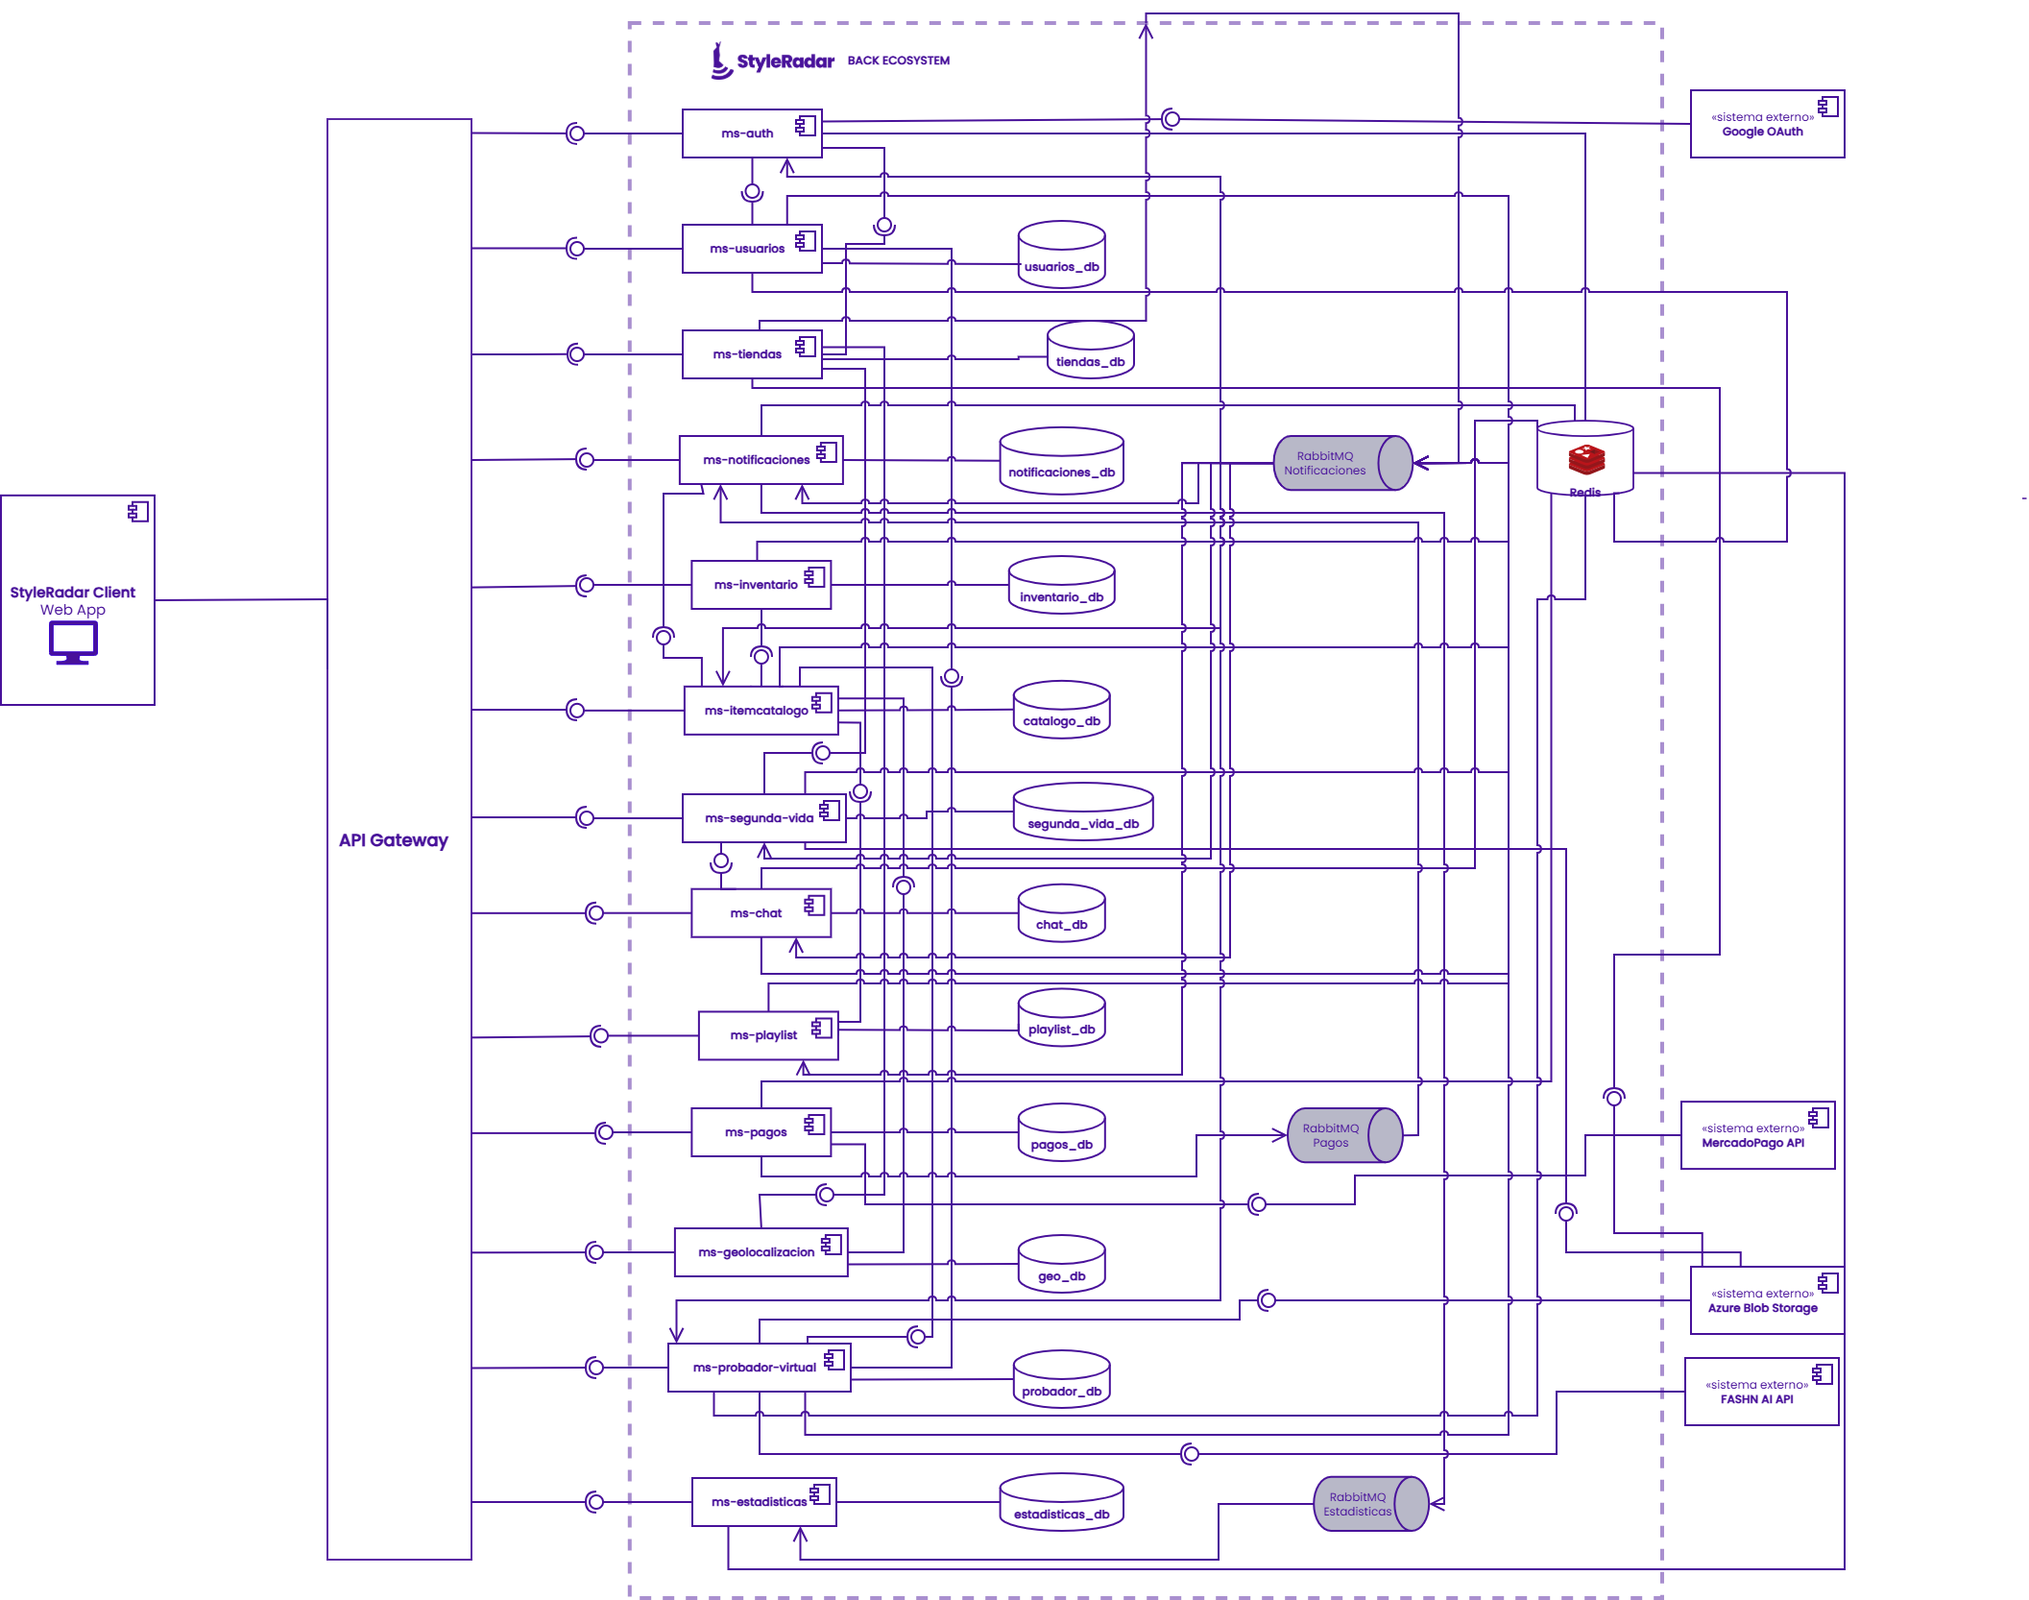
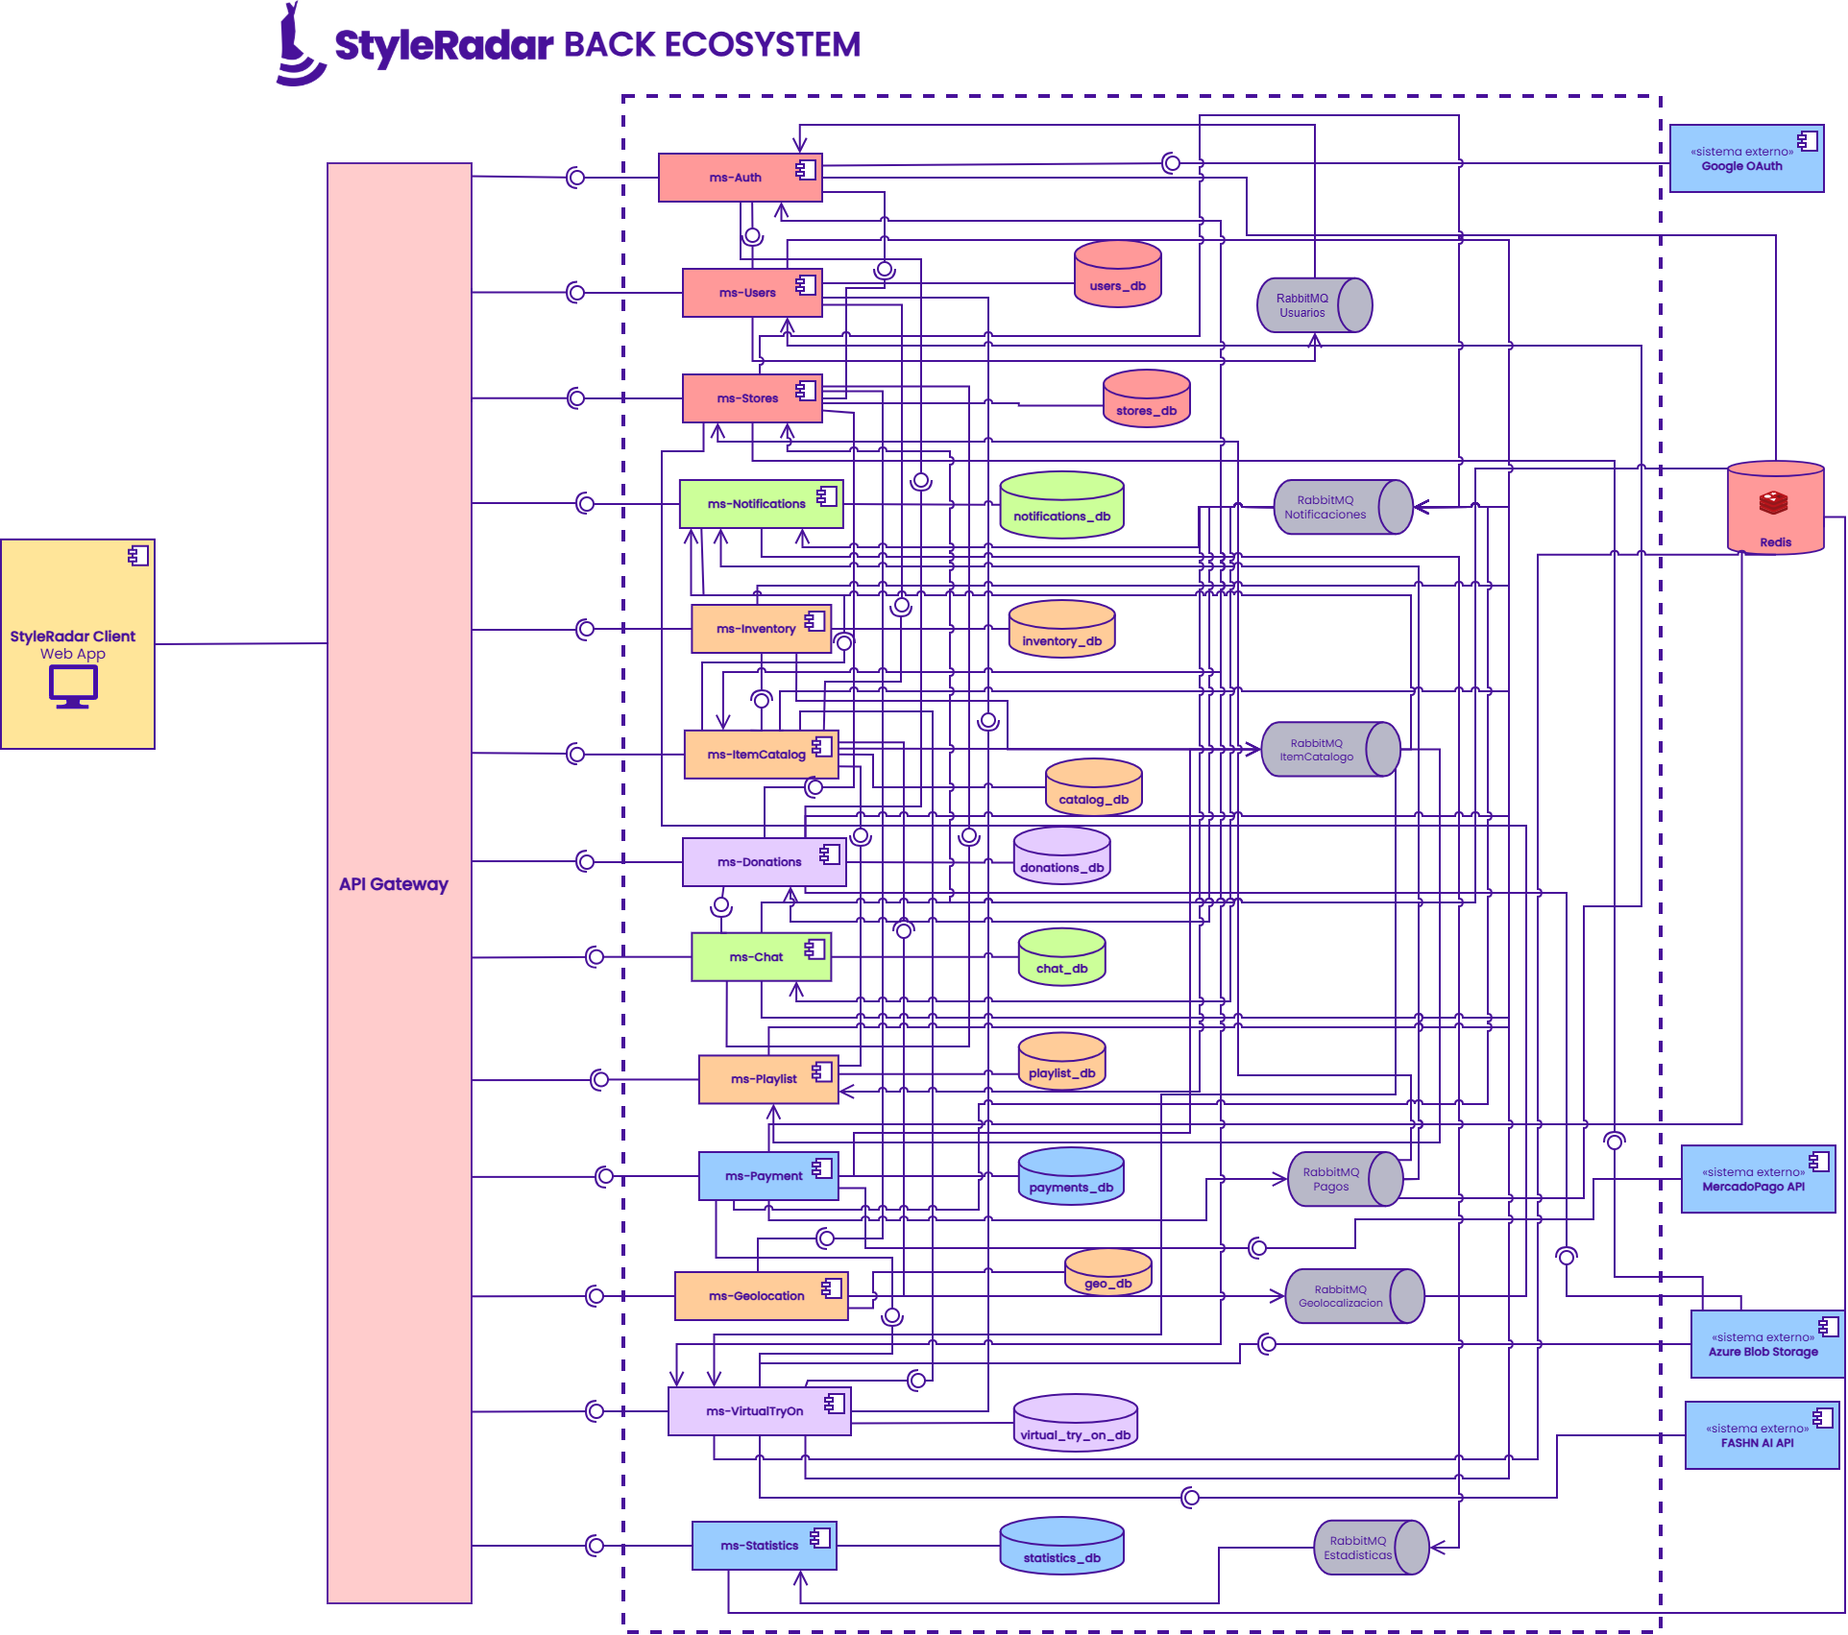
docs(uml): actualizar diagramas generales de componentes y despliegue y alinear explicacion tecnica

Changed region(s): [[0.0, 0.0, 1.0, 1.0], [0.8732, 0.437, 0.9044, 0.5618]]

diff --git a/docs/secciones/02-arquitectura-hexagonal-y-diagramas.md b/docs/secciones/02-arquitectura-hexagonal-y-diagramas.md
@@ -17,10 +17,16 @@ El API Gateway está construido sobre **Spring Cloud Gateway** y **Project React
 Este diagrama presenta la visión arquitectónica global de StyleRadar y delimita el rol estratégico del **API Gateway** como frontera perimetral del sistema:
 
 * **Punto Único de Entrada Perimetral (Single Point of Entry):** Todas las solicitudes emitidas desde la aplicación cliente (`StyleRadar Client Web App`) ingresan de forma obligatoria y exclusiva a través del **API Gateway** en el puerto `8080`. Ningún cliente externo posee visibilidad directa ni acceso a las direcciones IP o puertos de la red interna.
-* **Ocultamiento de Topología Interna y Reverse Proxy:** El Gateway enruta el tráfico hacia el ecosistema de 13 microservicios (`ms-auth` en `:8100`, `ms-usuarios` en `:8120`, `ms-tiendas` en `:8140`, `ms-notificaciones` en `:8300`, `ms-inventario` en `:8200`, `ms-itemcatalogo` en `:8220`, `ms-segunda-vida` en `:8280`, `ms-chat` en `:8320`, `ms-playlist` en `:8260`, `ms-pagos` en `:8400`, `ms-geolocalizacion` en `:8240`, `ms-probador-virtual` en `:8500` y `ms-estadisticas` en `:8420`). Gracias a este enrutamiento perimetral, los microservicios downstream pueden evolucionar, escalar o cambiar de dirección interna sin impactar el contrato consumido por el frontend.
-* **Naturaleza Stateless vs. Aislamiento de Persistencia (*Database-per-Service*):** Mientras cada microservicio de negocio gestiona su propia base de datos relacional PostgreSQL de manera 100% aislada (`usuarios_db`, `tiendas_db`, `catalogo_db`, `probador_db`, etc.), el API Gateway es un componente **completamente sin estado (stateless)**. No persiste registros en disco ni compite por bloqueos de base de datos, lo que le permite maximizar el rendimiento reactivo no bloqueante de Netty y escalar horizontalmente bajo picos de tráfico masivo.
-* **Aceleración en Memoria y Desacoplamiento Asíncrono:** Los microservicios consumen instancias de **Redis** para caching de alta velocidad y colas en **RabbitMQ** para procesamiento de eventos en segundo plano (notificaciones, analítica, transacciones). El API Gateway opera en una capa superior a esta mensajería, procesando únicamente tráfico HTTP/WebSocket síncrono perimetral de alta concurrencia.
-* **Frontera de Servicios Externos (SaaS):** Las integraciones de terceros (Google OAuth, MercadoPago API, Azure Blob Storage y FASHN AI API) son consumidas internamente por los microservicios dueños de cada dominio. El Gateway actúa como escudo protector, evitando que llamadas externas no autorizadas puedan comprometer los conectores de infraestructura del sistema.
+* **Ocultamiento de Topología Interna y Reverse Proxy:** El Gateway enruta el tráfico hacia el ecosistema de 13 microservicios autónomos bajo nomenclatura estandarizada:
+  - **Paquete 1 (Identidad):** `ms-Auth` (:8100), `ms-Users` (:8120) y `ms-Stores` (:8140).
+  - **Paquete 2 (Catálogo):** `ms-Inventory` (:8200), `ms-ItemCatalog` (:8220), `ms-Playlist` (:8260) y `ms-Geolocation` (:8240).
+  - **Paquete 3 (Mensajería y Notificaciones):** `ms-Notifications` (:8300) y `ms-Chat` (:8320 con soporte WebSocket).
+  - **Paquete 4 (Financiero y Analítica):** `ms-Payment` (:8400) y `ms-Statistics` (:8420).
+  - **Paquete 5 (Experiencia y Moda Sostenible):** `ms-VirtualTryOn` (:8500) y `ms-Donations` (:8520).
+  Gracias a este enrutamiento perimetral basado en contratos síncronos UML 2.5 (`API Gateway ---) (O--- ms-*`), los microservicios downstream pueden evolucionar, escalar o migrar de infraestructura interna sin impactar el contrato consumido por el frontend.
+* **Naturaleza Stateless vs. Aislamiento de Persistencia (*Database-per-Service*):** Mientras los microservicios de negocio gestionan su propia base de datos relacional PostgreSQL de manera 100% aislada en 12 esquemas independientes (`users_db`, `stores_db`, `notifications_db`, `inventory_db`, `catalog_db`, `donations_db`, `chat_db`, `playlist_db`, `payments_db`, `geo_db`, `virtual_try_on_db` y `statistics_db`; `ms-Auth` no requiere base relacional al delegar sesiones en tokens y caché), el API Gateway es un componente **completamente sin estado (stateless)**. No persiste registros en disco ni compite por bloqueos de base de datos, lo que le permite maximizar el rendimiento reactivo no bloqueante de Netty y escalar horizontalmente bajo picos de tráfico masivo.
+* **Aceleración en Memoria y Desacoplamiento Asíncrono:** Los microservicios consumen instancias de **Redis** para caching de alta velocidad (bases `Auth`, `Payment`, `Chat`, `Statistics` y `Virtual Try-on`) y colas dedicadas en **RabbitMQ** (`RabbitMQ Usuarios`, `RabbitMQ Notificaciones`, `RabbitMQ ItemCatalogo`, `RabbitMQ Pagos`, `RabbitMQ Geolocalizacion`, `RabbitMQ Estadisticas`) para procesamiento distribuido de eventos en segundo plano. El API Gateway opera en una capa superior a esta mensajería, procesando únicamente tráfico HTTP/WebSocket síncrono perimetral de alta concurrencia.
+* **Frontera de Servicios Externos (SaaS):** Las integraciones de terceros (`Google OAuth` para identidad, `MercadoPago API` para pagos, `Azure Blob Storage` para activos multimedia y `FASHN AI API` para inferencia generativa) son consumidas internamente por los microservicios dueños de cada dominio. El Gateway actúa como escudo protector, evitando que llamadas externas no autorizadas puedan comprometer los conectores de infraestructura del sistema.
 
 #### 2.2 Diagrama de Flujo y Cadena de Filtros Reactivos
 
@@ -72,37 +78,49 @@ Este diagrama modela la interacción temporal del flujo de peticiones que cruzan
 
 Este diagrama modela la topología física, el confinamiento de red y la arquitectura de infraestructura en la nube para la solución integral **StyleRadar**, destacando la posición estratégica del **API Gateway** como centinela de seguridad perimetral:
 
-* **1. Zona Pública / DMZ y Clientes Externos (`«device» Client Workstation / Mobile`):**
-  - Los usuarios compradores, almacenes aliados, fundaciones y administradores acceden al sistema desde navegadores web (SPA React alojada en Vercel) y aplicaciones móviles (Android / iOS).
-  - Todo el tráfico cliente viaja obligatoriamente a través de conexiones seguras cifradas con **HTTPS / TLS 1.3** hacia el nombre de dominio oficial o endpoint de Azure App Service (`:8080`).
-  - Ningún cliente exterior conoce ni puede alcanzar directamente las IPs privadas ni los puertos de los microservicios de negocio.
+* **1. Zona de Cliente y Acceso Público (`«Device» Client / User Device`):**
+  - Los usuarios compradores, comercios aliados y administradores acceden al sistema a través de su navegador web (`«Execution Environment» Web Browser`), el cual ejecuta el artefacto cliente `«Artifact» Web Application (React / Vite)`.
+  - Todo el tráfico cliente viaja de forma obligatoria y cifrada a través de protocolos seguros **`HTTPS :443`** (para llamadas HTTP REST) y **`WSS :8080`** (WebSockets reactivos) hacia el puerto público `:8080` del **API Gateway**.
+  - Ningún cliente exterior conoce ni puede alcanzar directamente las IPs privadas ni los puertos internos de la malla de microservicios.
 
-* **2. Perímetro de Entrada e Ingress Público (`«container» api-gateway`):**
-  - El **API Gateway** se ejecuta como un contenedor OCI basado en `eclipse-temurin:21-jre-alpine` bajo el proceso no privilegiado `gateway (UID 10001)`.
-  - Es el **único contenedor con Ingress público expuesto** (puerto `8080`) en todo el entorno en la nube (`StyleRadar Cloud Environment`).
-  - Asume la terminación TLS, la negociación de políticas CORS (`GlobalCorsFilter`), la inyección de correlación y telemetría (`GlobalRequestLoggingFilter`), y el control estricto de autenticación perimetral (`JwtTokenValidatorFilter`).
-  - Cuenta con mitigación activa frente a la vulnerabilidad CVE-2025-41243 (endpoint administrativo `/actuator/gateway` completamente deshabilitado y protegido).
-  - La sonda de salud de Azure PaaS (`Liveness/Readiness Probe`) supervisa el contenedor cada 30 segundos a través de `/actuator/health`.
+* **2. Entorno de Ejecución en Contenedores (`«Execution Environment» Azure Container Apps Environment`):**
+  - **`«Container App» API Gateway :8080`:** Es el **único contenedor con Ingress público expuesto** (`:8080`) en todo el entorno en la nube. Asume la terminación TLS, la negociación de políticas CORS (`GlobalCorsFilter`), la inyección de correlación y telemetría (`GlobalRequestLoggingFilter`), y el control estricto de autenticación perimetral (`JwtTokenValidatorFilter`).
+  - **Malla de 13 Microservicios (`«Container App»`):** Residen en una red confinada privada sin exposición pública, comunicándose con el API Gateway mediante enlaces HTTP síncronos directos en sus respectivos puertos:
+    - **`ms-Auth :8100`** (`HTTP :8100`) — Autenticación federada, emisión y validación de tokens.
+    - **`ms-Users :8120`** (`HTTP :8120`) — Gestión de perfiles, roles y medidas biométricas.
+    - **`ms-Stores :8140`** (`HTTP :8140`) — Gestión de comercios aliados y catálogos de tiendas.
+    - **`ms-Inventory :8200`** (`HTTP :8200`) — Control de existencias de prendas y stock en tiempo real.
+    - **`ms-Playlist :8260`** (`HTTP :8260`) — Playlists de moda, tendencias y recomendaciones.
+    - **`ms-Geolocation :8240`** (`HTTP :8240`) — Localización geográfica de tiendas y cálculo de cercanía.
+    - **`ms-Chat :8320`** (`HTTP :8320`) — Mensajería interactiva cliente-comercio.
+    - **`ms-Statistics :8420`** (`HTTP :8420`) — Métricas de interacción, telemetría y analítica de negocio.
+    - **`ms-ItemCatalog :8220`** (`HTTP :8220`) — Fichas técnicas de prendas y prendas disponibles.
+    - **`ms-VirtualTryOn :8500`** (`HTTP :8500`) — Orquestación de probador virtual con IA generativa y cuotas.
+    - **`ms-Payment :8400`** (`HTTP :8400`) — Pasarela de cobros, suscripciones y transacciones.
+    - **`ms-Donations :8520`** (`HTTP :8520`) — Gestión de donaciones de ropa y economía circular *(puerto diferenciado, resolviendo colisiones previas)*.
+    - **`ms-Notifications :8300`** (`HTTP :8300`) — Notificaciones push y correos transaccionales.
 
-* **3. Malla Confinada de Microservicios (`«network» styleradar-network / Azure VNet`):**
-  - Los 13 microservicios residen en una red virtual privada y aislada (Azure VNet / Docker Bridge confinada), sin mapeo de puertos hacia la interfaz pública del Host.
-  - La comunicación entre el Gateway y los microservicios downstream es directa, interna y de ultra-baja latencia (< 5 ms):
-    - **Paquete 1: Identidad (CADche · Bloque 8100):** `ms-auth` (:8100), `ms-usuarios` (:8120) y `ms-tiendas` (:8140).
-    - **Paquete 2: Catálogo (RESTrepo · Bloque 8200):** `ms-inventario` (:8200), `ms-item-catalogo` (:8220), `ms-geolocalizacion` (:8240) y `ms-playlist` (:8260).
-    - **Paquete 3: Mensajería y Notificaciones (Guatoque · Bloque 8300):** `ms-notificaciones` (:8300) y `ms-chat` (:8320 con soporte WebSocket/STOMP).
-    - **Paquete 4: Pagos y Analítica (NQS · Bloque 8400):** `ms-pagos-suscripciones` (:8400) y `ms-estadisticas` (:8420).
-    - **Paquete 5: Experiencia y Moda Sostenible (Portal 8080 · Bloque 8500):** `ms-probador-virtual` (:8500) y `ms-segunda-vida-donaciones` (:8520).
-  - Los circuitos de falla de Resilience4j protegen al Gateway de microservicios con lentitud o caídas, degradando elegantemente hacia el `FallbackController` interno (`HTTP 503 RFC 7807`).
+* **3. Persistencia Relacional Dedicada (`«Execution Environment» Azure Database for PostgreSQL` · `:5432`):**
+  - Siguiendo el patrón *Database-per-Service*, un servidor PostgreSQL gestionado aloja **12 bases de datos lógicas independientes** conectadas mediante **`TCP :5432`**:
+    `users_db`, `stores_db`, `notifications_db`, `inventory_db`, `catalog_db`, `donations_db`, `chat_db`, `playlist_db`, `payments_db`, `geo_db`, `virtual_try_on_db` y `statistics_db`.
+  - Cada microservicio con persistencia relacional accede estrictamente a su base de datos asignada. `ms-Auth` no requiere base de datos relacional al gestionar sesiones en caché y validar tokens criptográficos.
 
-* **4. Desacoplamiento de Persistencia (*Database-per-Service*) y Asincronía:**
-  - Siguiendo los principios de microservicios limpios, cada componente posee su propia base de datos relacional independiente en **Azure Database for PostgreSQL** (`auth_db`, `usuarios_db`, `tiendas_db`, `catalogo_db`, `probador_db`, `donaciones_db`, etc.). Está estrictamente prohibido el acceso cruzado entre esquemas.
-  - **Redis** provee almacenamiento en memoria para sesiones, contadores en tiempo real y candados de concurrencia e idempotencia.
-  - **RabbitMQ / Kafka** orquesta los eventos asíncronos desacoplados (`StockChangedEvent`, `PagoConfirmadoEvent`, `DonationStatusEvent`).
-  - **Naturaleza 100% Stateless del Gateway:** Al no poseer base de datos propia ni conexiones directas a los brokers de eventos, el Gateway mantiene una huella de memoria ultraligera (~150 MB de RAM), arranques en frío en menos de 3 segundos y capacidad de autoscaling horizontal elástico inmediato ante variaciones de demanda.
+* **4. Aceleración en Memoria (`«Execution Environment» Azure Cache for Redis` · `:6379`):**
+  - Clúster en memoria conectado mediante protocolo **`RESP :6379`** por los microservicios con requerimientos de latencia ultrabaja:
+    - `ms-Auth` (sesiones y blacklist de tokens)
+    - `ms-Payment` (idempotencia transaccional y bloqueos de cobro)
+    - `ms-Chat` (presencia y estados de conexión)
+    - `ms-Statistics` (contadores en tiempo real)
+    - `ms-VirtualTryOn` (cuotas de usuario y bloqueos de renderizado)
 
-* **5. Frontera Segura con Proveedores SaaS:**
-  - Los proveedores externos de software como servicio (**Azure Blob Storage** para almacenamiento de imágenes, **Google Identity** para OAuth2, **Mercado Pago** para pasarela de pagos y **FASHN AI** para generación generativa VTON) son consumidos exclusivamente desde los microservicios especializados de backend.
-  - Esta topología garantiza que el Gateway jamás almacene credenciales de terceros ni exponga claves de API de servicios externos en sus capas perimetrales.
+* **5. Broker de Mensajería Asíncrona (`«Execution Environment» RabbitMQ Message Broker` · `:5672`):**
+  - Servidor de mensajería conectado mediante protocolo **`AMQP :5672`** con los **13 microservicios**, orquestando la publicación y consumo desacoplado de eventos del dominio sin sobrecargar la capa síncrona del Gateway.
+
+* **6. Proveedores y Servicios Externos en la Nube (SaaS · `HTTPS :443`):**
+  - **`Google OAuth 2.0` (`«External System»`):** Consumido por `ms-Auth` para inicio de sesión federado.
+  - **`Azure Blob Storage` (`«Cloud Service»`):** Consumido por `ms-Stores`, `ms-Donations` y `ms-VirtualTryOn` para almacenamiento seguro de imágenes.
+  - **`FASHN AI` (`«External AI API»`):** Consumido por `ms-VirtualTryOn` para inferencia generativa neuronal de prendas.
+  - **`Mercado Pago API` (`«External System»`):** Consumido por `ms-Payment` para procesamiento de pagos y suscripciones.
 
 ---
 
